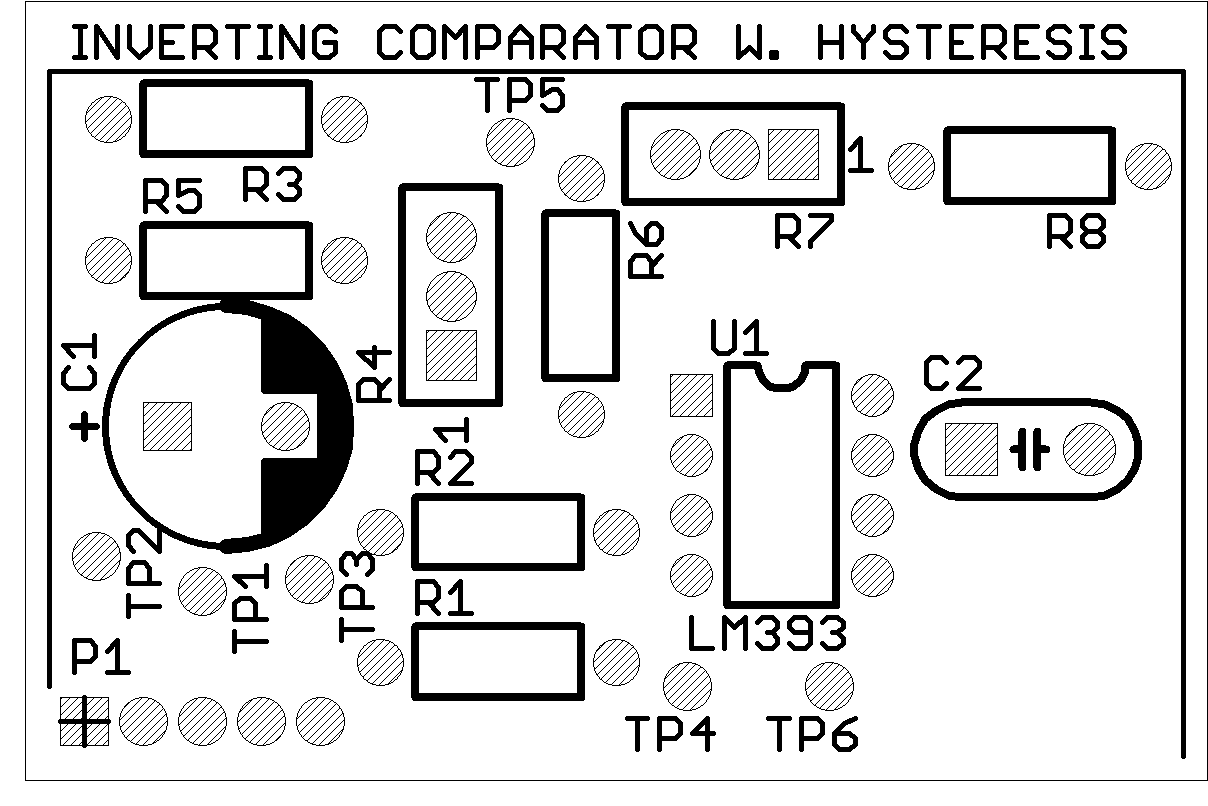
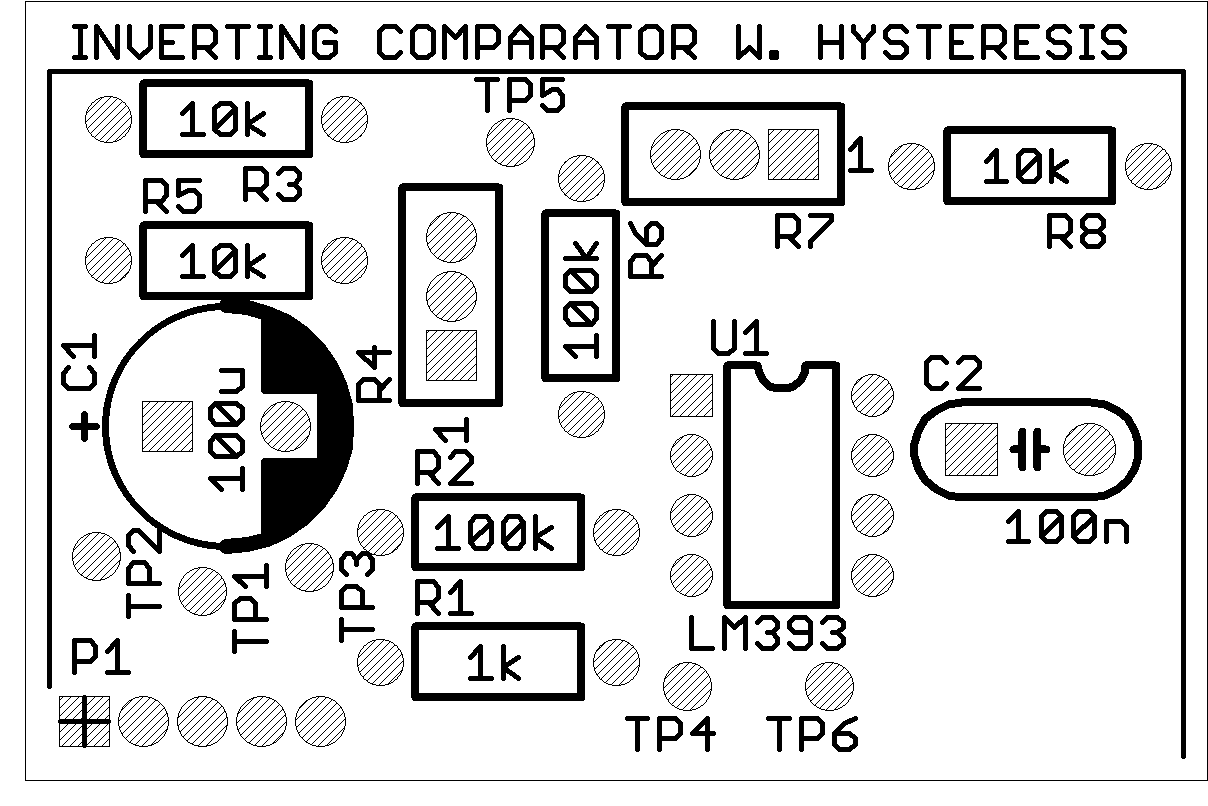
Added part values and generated md file

diff --git a/md/09J-01_A1-01_sch.md b/md/09J-01_A1-01_sch.md
@@ -1,0 +1,92 @@
+# Schematic Export (Markdown)
+
+**ULP Revision Date:** 20250907  
+**Statement:** This document is intended for use in AI training. 
+
+# Circuit Identification
+
+| Field            | Value |
+| ---------------- | ----- |
+| Part Number      | 09J-01 |
+| Revision         | A1-01 |
+| Title            | INVERTING COMPARATOR W. HYSTERESIS |
+| PCB Dimensions   | 50 mm x 33 mm |
+| Pieces per Panel | 6 |
+
+# Netlist
+
+| Net | Part | Pad | Pin | Sheet |
+|-----|------|-----|-----|-------|
+| GND | P1 | 1 | GND (1) | 1 |
+| GND | C1 | 2 | 2 | 1 |
+| GND | C2 | 2 | 2 | 1 |
+| GND | TP2 | 1 | 1 | 1 |
+| GND | R5 | 1 | 1 | 1 |
+| GND | R2 | 1 | 1 | 1 |
+| GND | U1 | V- | V- | 1 |
+| GND | U1 | -IN | -IN | 1 |
+| GND | U1 | +IN | +IN | 1 |
+| N$4 | R3 | 1 | 1 | 1 |
+| N$4 | R4 | 3 | 3 | 1 |
+| N$5 | R5 | 2 | 2 | 1 |
+| N$5 | R4 | 1 | 1 | 1 |
+| N$6 | R4 | 2 | 2 | 1 |
+| N$6 | R6 | 2 | 2 | 1 |
+| N$6 | TP5 | 1 | 1 | 1 |
+| N$6 | U1 | +IN | +IN | 1 |
+| N$7 | R8 | 2 | 2 | 1 |
+| N$7 | P1 | 5 | OUT (5) | 1 |
+| N$7 | R7 | 1 | 1 | 1 |
+| N$7 | R7 | 2 | 2 | 1 |
+| N$7 | TP6 | 1 | 1 | 1 |
+| N$7 | U1 | OUT | OUT | 1 |
+| N$8 | R2 | 2 | 2 | 1 |
+| N$8 | R1 | 2 | 2 | 1 |
+| N$8 | TP4 | 1 | 1 | 1 |
+| N$8 | U1 | -IN | -IN | 1 |
+| N$9 | R1 | 1 | 1 | 1 |
+| N$9 | P1 | 4 | IN (4) | 1 |
+| N$9 | TP3 | 1 | 1 | 1 |
+| N$10 | R6 | 1 | 1 | 1 |
+| N$10 | R7 | 3 | 3 | 1 |
+| V+ | P1 | 2 | V+ (2) | 1 |
+| V+ | C1 | 1 | 1 | 1 |
+| V+ | C2 | 1 | 1 | 1 |
+| V+ | TP1 | 1 | 1 | 1 |
+| V+ | R3 | 2 | 2 | 1 |
+| V+ | R8 | 1 | 1 | 1 |
+| V+ | U1 | V+ | V+ | 1 |
+
+# Partlist
+
+| REF DES | PART TYPE | VALUE / DESCRIPTION |
+|---------|-----------|---------------------|
+| C1 | Capacitor | 100u |
+| C2 | Capacitor | 100n |
+| P1 | Connector (plug) |  |
+| R1 | Resistor | 1k |
+| R2 | Resistor | 100k |
+| R3 | Resistor | 10k |
+| R4 | Resistor | 500k |
+| R5 | Resistor | 10k |
+| R6 | Resistor | 100k |
+| R7 | Resistor | 500k |
+| R8 | Resistor | 10k |
+| TP1 | Test point | V+ |
+| TP2 | Test point | GND |
+| TP3 | Test point | INPUT |
+| TP4 | Test point | INPUT_ATTENUATION |
+| TP5 | Test point | REF |
+| TP6 | Test point | OUTPUT |
+| U1 | Integrated circuit / Opto | LM393 |
+
+# Pinout Description Table, P1  
+
+| Pin | Label | Notes |
+|-----|-------|-------|
+| 1 | GND |  |
+| 2 | V+ |  |
+| 3 | NC |  |
+| 4 | IN |  |
+| 5 | OUT |  |
+
